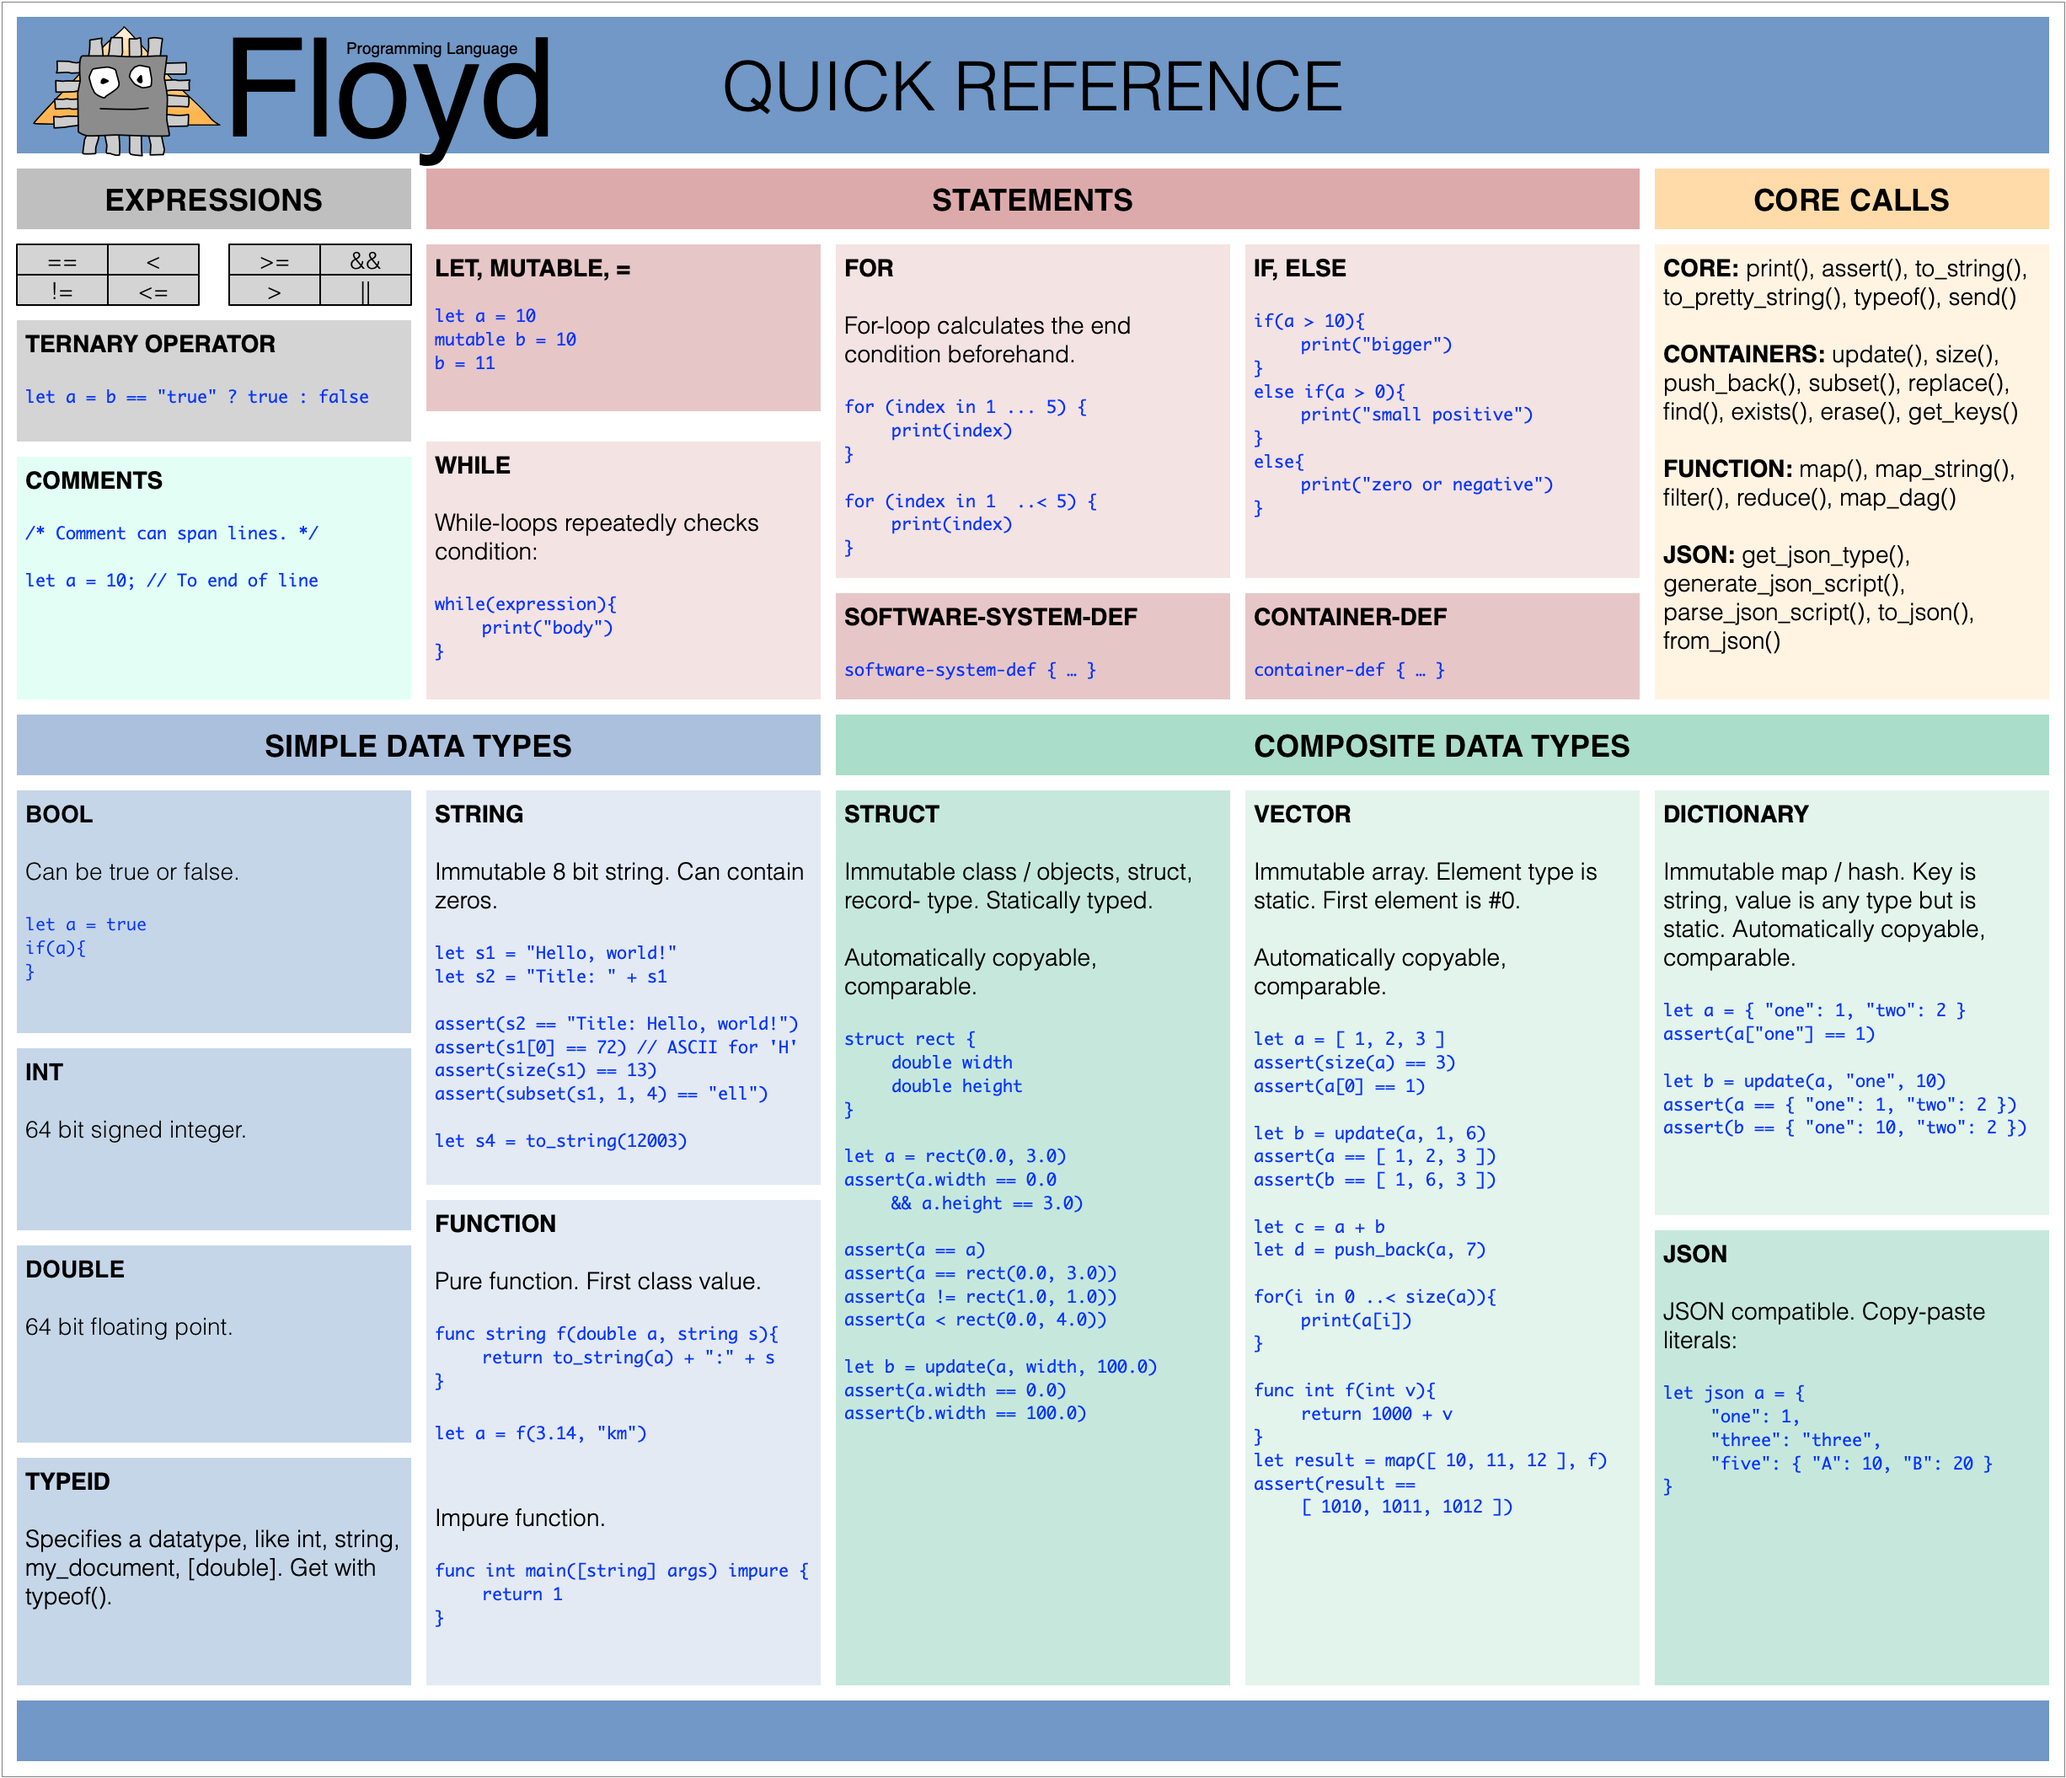
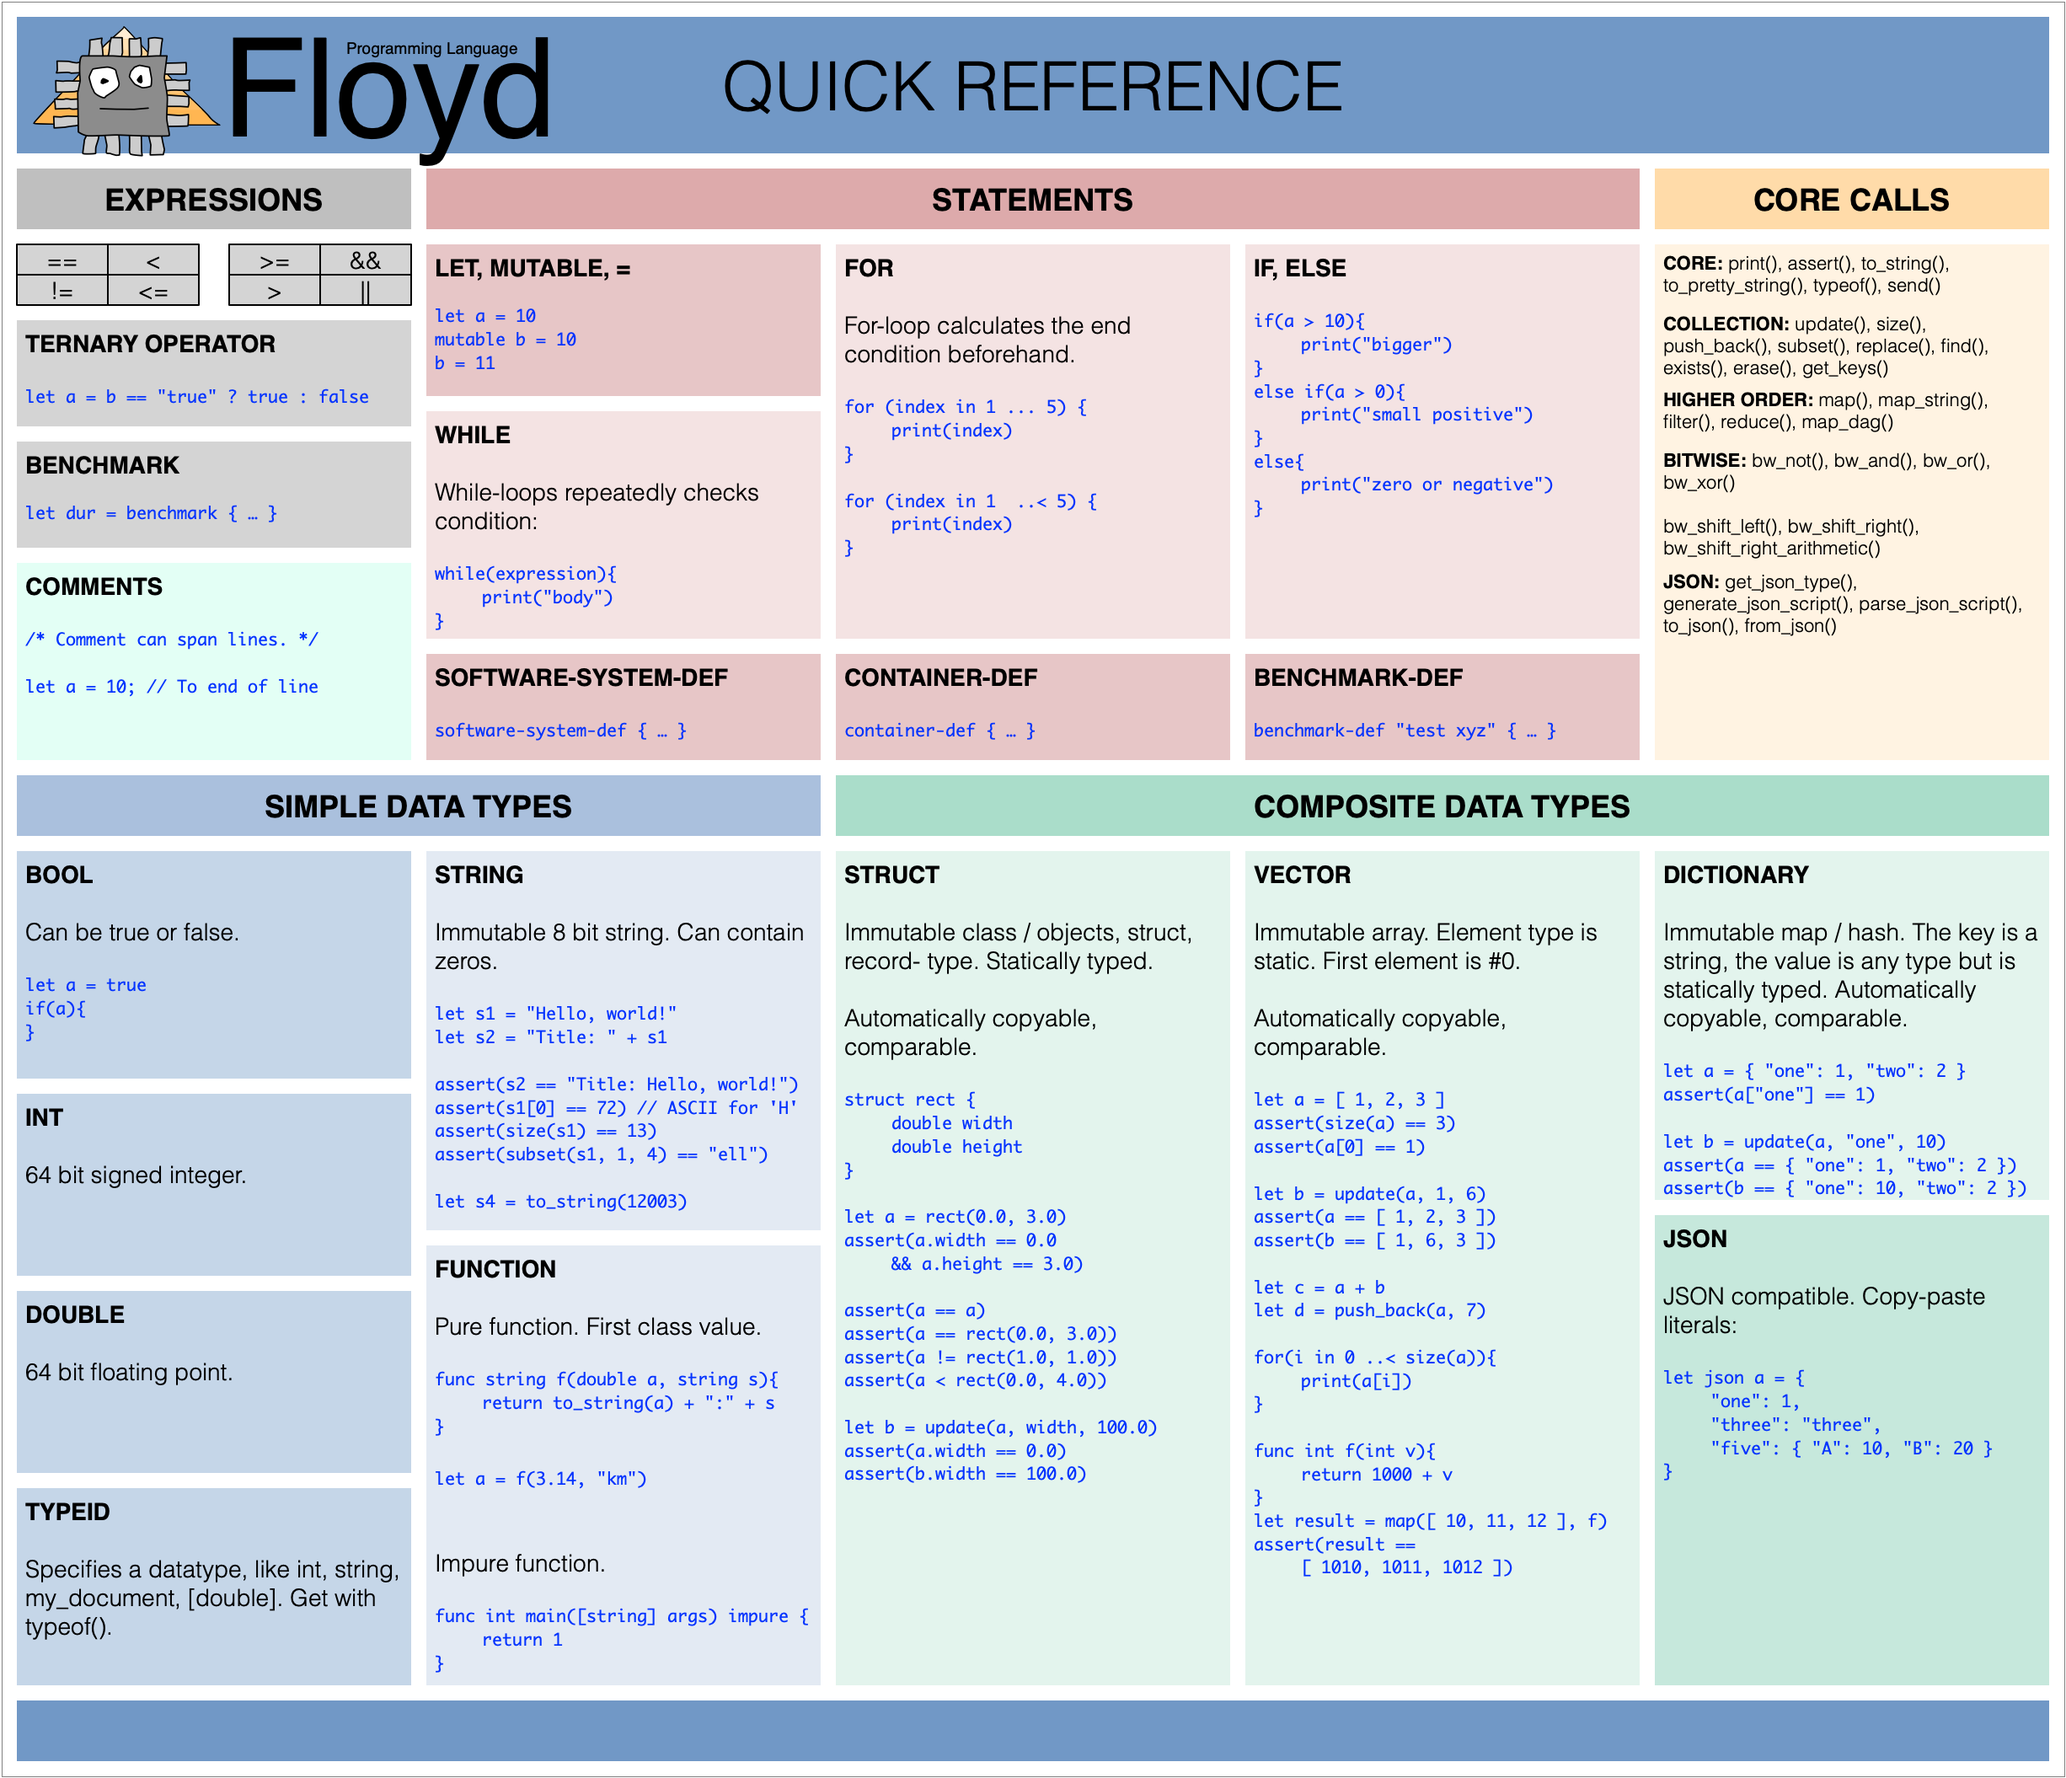
Add benchmark features to quick sheet + update manual

Changed region(s): [[0.0, 0.1232, 0.9918, 0.955]]

diff --git a/docs/floyd_manual/floyd_manual.md b/docs/floyd_manual/floyd_manual.md
@@ -615,7 +615,7 @@ benchmark-def "Linear veq" {
 ```
 
 
-### RUNNING MICRO BENCHMARKS FROM TOOL
+### RUNNING MICRO BENCHMARKS FROM COMMAND LINE TOOL
 
 Run all micro benchmarks in your program:
 
@@ -652,7 +652,7 @@ The output will be formatted and sent to stdout. Use --json to instead print the
 
 When you run a benchmark, all/any of its instances are always run.
 
-### RUNNING MICRO BENCHMARKS FROM CODE
+### RUNNING MICRO BENCHMARKS FROM FLOYD CODE
 
 You can also write code that queries and runs your tests using built-in functions:
 
